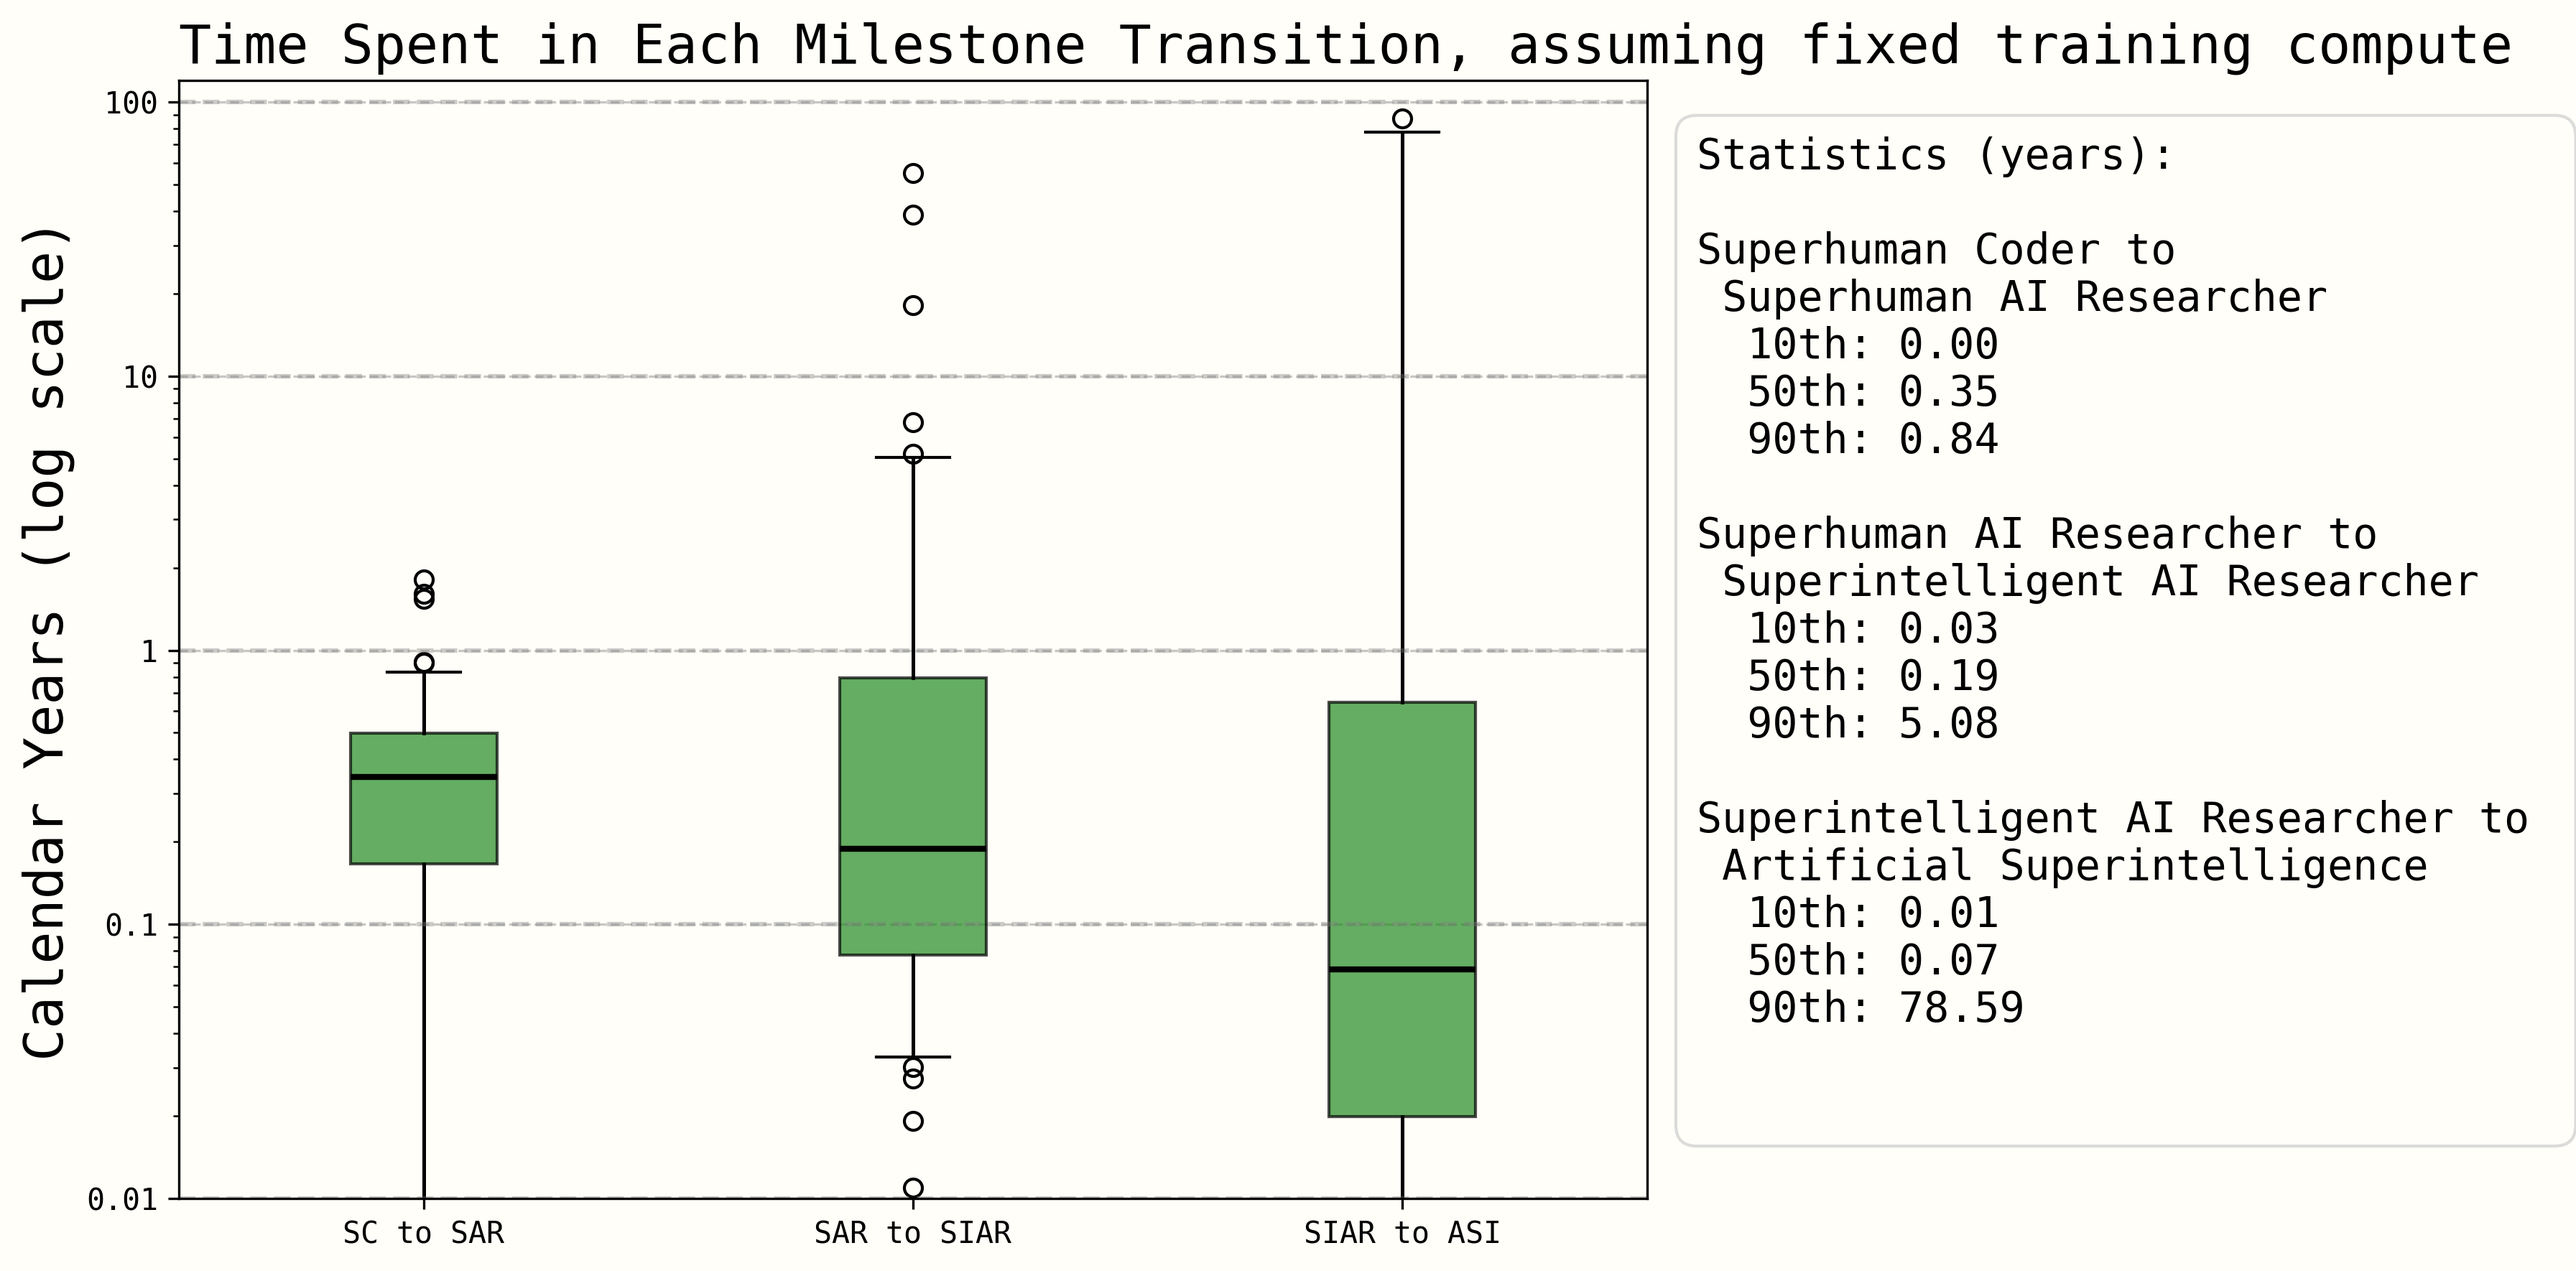
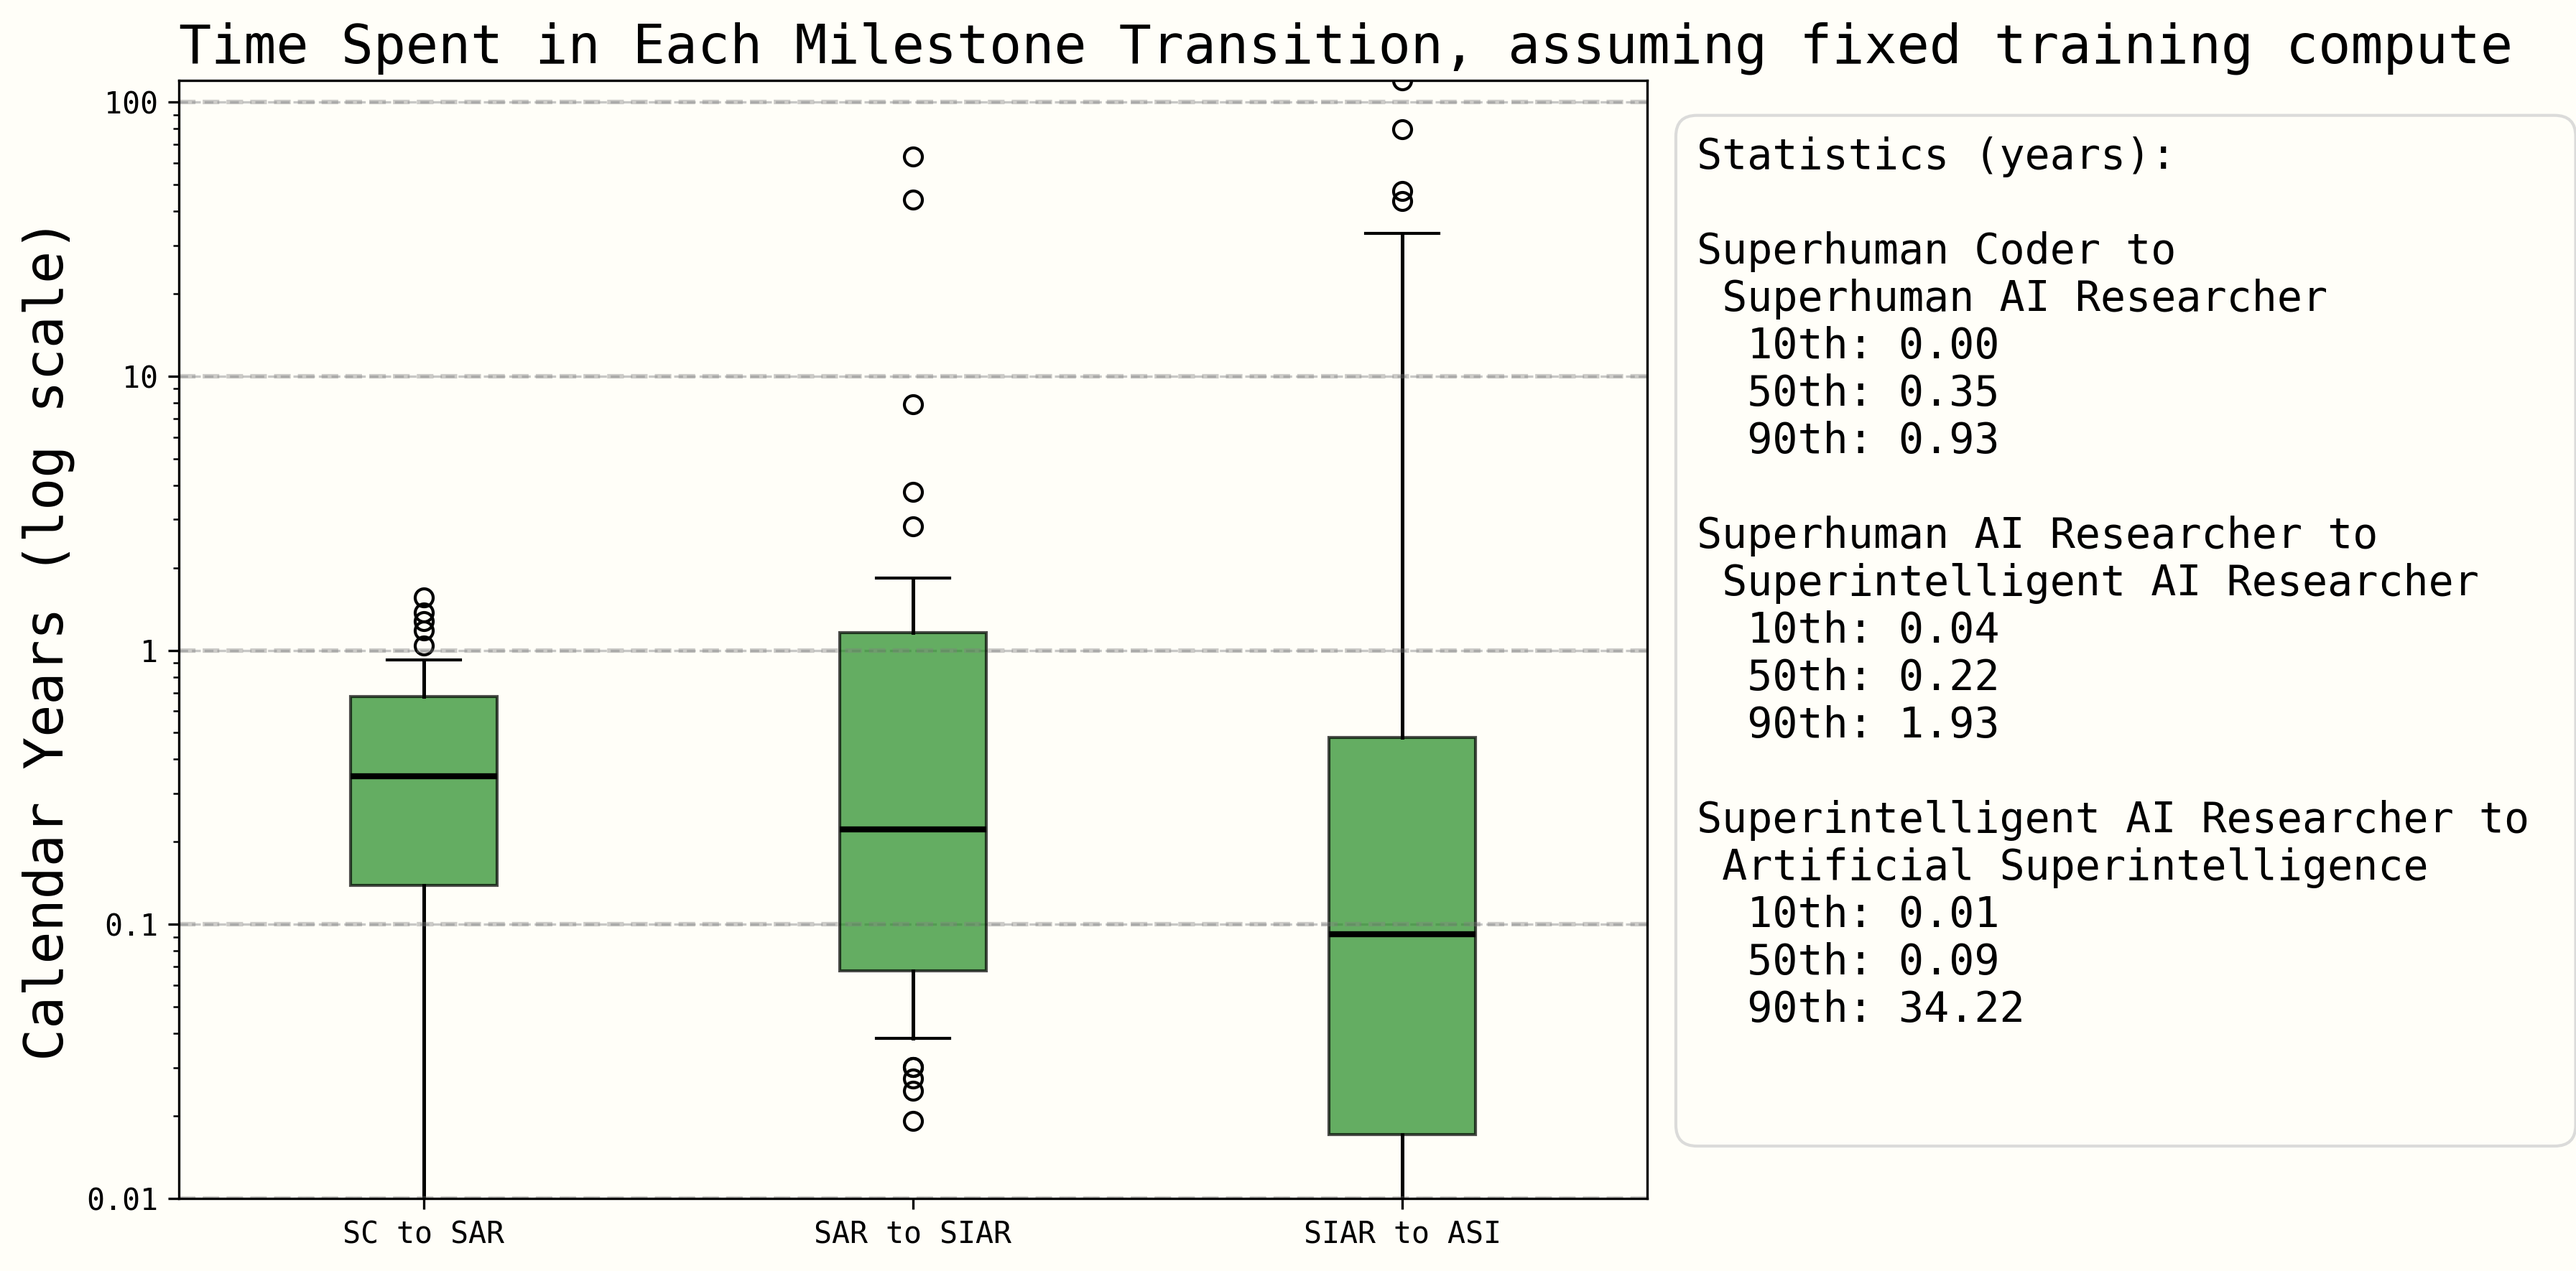
fix hardware adjustment bug

diff --git a/takeoff/forecasting_takeoff.py b/takeoff/forecasting_takeoff.py
@@ -161,9 +161,9 @@ def get_project_samples_with_correlations(config: dict, n_sims: int, trajectory_
         for i in range(n_sims):
             # (a) Calculate adjusted software target based on hardware multiple
             if initial_hardware_multiple[i] > 0:
-                adjustment_factor = all_doublings * (all_doublings - software_only_doublings) * (np.log(1/initial_hardware_multiple[i]) / np.log(4.5**2))
+                adjustment_factor = all_doublings - (all_doublings - software_only_doublings) * (np.log((4.5**2)*initial_hardware_multiple[i]) / np.log(4.5**2))
                 software_targets[i] = research_stock_at_present_day * (2 ** adjustment_factor)
-            else:
+            else:  
                 software_targets[i] = software_research_stock_at_sc  # Fallback to default
             
             # (b) Calculate current software stock based on months behind
@@ -770,27 +770,64 @@ def create_milestone_timeline_plot(all_milestone_dates: list[list[datetime]], co
         if not visible_data:
             print(f"Warning: No data in visible range for {milestone}")
             continue
-            
-        # Calculate KDE on visible data
-        kde = gaussian_kde(visible_data)
         
-        # Create x range for plotting
-        x_range = np.linspace(start_year, MAX_GRAPH_YEAR, 200000)
-        density = kde(x_range)
-        
-        # Normalize density to sum to 1 over visible range - fix division by zero
-        density_sum = np.sum(density)
-        if density_sum > 0:
-            density = density / density_sum * (len(visible_data) / len(milestone_data))
-        else:
-            density = np.zeros_like(density)  # Fallback if density is all zeros
-        
-        # Plot with different colors for each milestone
+        # Define colors for each milestone
         colors = ["#900000", "#004000", "#000090"]
-        ax.plot(x_range, density, '-', color=colors[i], label=milestone,
-                linewidth=2, alpha=0.8, zorder=2)
-        ax.fill_between(x_range, density, color=colors[i], alpha=0.1)
         milestone_full = ["Superhuman\n  AI Researcher", "Superintelligent\n  AI Researcher", "Generally\n  Superintelligent"]
+        
+        # Try to calculate KDE, with fallback to histogram or vertical line if it fails
+        try:
+            # Check if data has sufficient variance for KDE
+            data_variance = np.var(visible_data)
+            unique_values = len(set(visible_data))
+            
+            if data_variance < 1e-10 or unique_values < 3:
+                raise ValueError("Insufficient data variance for KDE")
+            
+            kde = gaussian_kde(visible_data)
+            
+            # Create x range for plotting
+            x_range = np.linspace(start_year, MAX_GRAPH_YEAR, 200000)
+            density = kde(x_range)
+            
+            # Normalize density to sum to 1 over visible range - fix division by zero
+            density_sum = np.sum(density)
+            if density_sum > 0:
+                density = density / density_sum * (len(visible_data) / len(milestone_data))
+            else:
+                density = np.zeros_like(density)  # Fallback if density is all zeros
+            
+            # Plot with different colors for each milestone
+            ax.plot(x_range, density, '-', color=colors[i], label=milestone,
+                    linewidth=2, alpha=0.8, zorder=2)
+            ax.fill_between(x_range, density, color=colors[i], alpha=0.1)
+            
+        except (np.linalg.LinAlgError, ValueError) as e:
+            print(f"Warning: KDE failed for {milestone} due to insufficient data variance. Using fallback visualization.")
+            
+            # Fallback 1: Try histogram if we have enough distinct values
+            if len(set(visible_data)) > 1:
+                # Create histogram
+                data_min = min(visible_data)
+                data_max = max(visible_data)
+                if data_max > data_min:
+                    bins = np.linspace(data_min, data_max, min(20, len(set(visible_data))))
+                    hist, bin_edges = np.histogram(visible_data, bins=bins, density=True)
+                    bin_centers = (bin_edges[:-1] + bin_edges[1:]) / 2
+                    
+                    # Plot as step function
+                    ax.step(bin_centers, hist, where='mid', color=colors[i], 
+                           label=milestone, linewidth=2, alpha=0.8, zorder=2)
+                    ax.fill_between(bin_centers, hist, step='mid', color=colors[i], alpha=0.1)
+                else:
+                    # Fallback 2: All values are the same, plot a vertical line
+                    ax.axvline(x=data_min, color=colors[i], linestyle='-', linewidth=3,
+                             alpha=0.8, label=f"{milestone} (Consistent)", zorder=2)
+            else:
+                # Fallback 2: All values are the same, plot a vertical line  
+                ax.axvline(x=visible_data[0], color=colors[i], linestyle='-', linewidth=3,
+                         alpha=0.8, label=f"{milestone} (Consistent)", zorder=2)
+        
         # Add statistics text using full data with month and year format
         if (p90 > 2100): 
             stats = (
